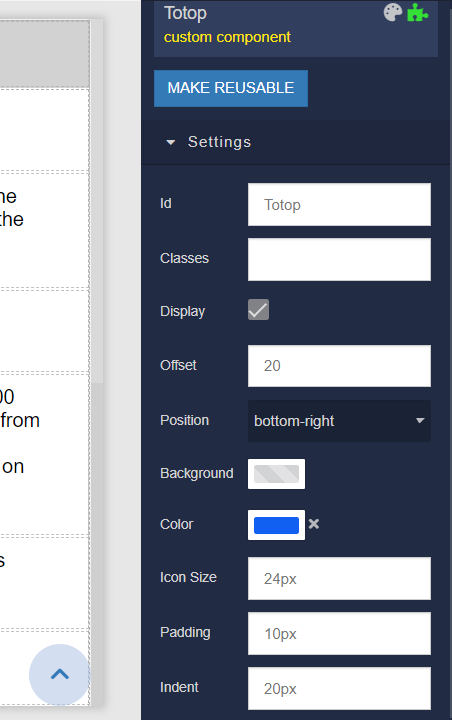
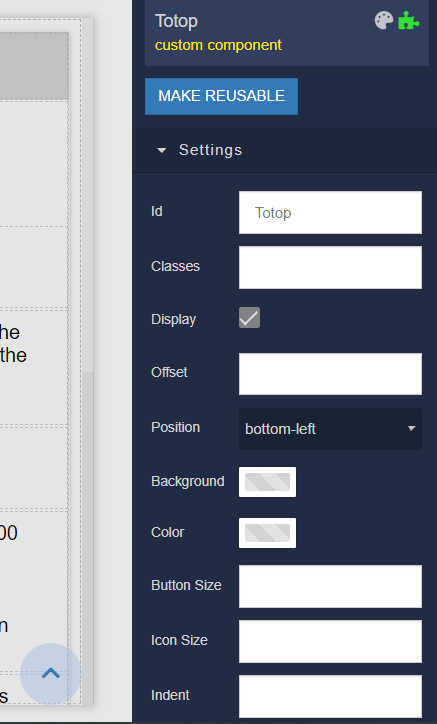
edits in handle, readme, changed example img

diff --git a/components/bl-totop-component/src/index.js b/components/bl-totop-component/src/index.js
@@ -36,7 +36,9 @@ export default function TotopComponent({ component }) {
     fill: color,
   };
 
-  const handleScroll = () => window.scrollTo({ top: element?.el ? offset : offset, behavior: "smooth" });
+  const handleScroll = () => {
+    window.scrollTo({ top:  element?.el ? element.el.offsetTop + offset : offset, behavior: 'smooth' });
+  };
 
   return (
     <div className={cn("bl-customComponent-totop", classList)} style={styles} onClick={handleScroll}>

diff --git a/components/bl-totop-component/README.md b/components/bl-totop-component/README.md
@@ -8,16 +8,16 @@ Totop is the component that can be used in Backendless [UI-Builder](https://back
 
 ## Properties
 
-| Property   | Type                                                | Default value  | Logic                      | Data Binding | UI Setting | Description                                                       |
-|------------|-----------------------------------------------------|----------------|----------------------------|--------------|------------|-------------------------------------------------------------------|
-| Position   | *Select* <br> `'bottom-right'` <br> `'bottom-left'` | `bottom-right` | Type Logic                 | NO           | YES        | Controls the position of the up button on the page.               |
-| Element    | *JSON* <br> `{...}`                                 |                | Element To Scroll To Logic | NO           | NO         | The logic to determine the element to which the scroll will be.   |
-| Offset     | *Number*                                            | `0`            |                            | NO           | YES        | Controls the scroll offset.                                       |
-| Background | *Color*                                             |                |                            | NO           | YES        | Controls the up button background.                                |
-| Color      | *Color*                                             |                |                            | NO           | YES        | Controls the color of the icon inside the up button.              |
-| Icon Size  | *Text*                                              | `24px`         |                            | NO           | YES        | Controls the size(width/height) of the icon inside the up button. |
-| Padding    | *Text*                                              | `10px`         |                            | NO           | YES        | Controls the indent inside the up button.                         |
-| Indent     | *Text*                                              | `30px`         |                            | NO           | YES        | Controls the indent of the up button from the edge of the page.   |
+| Property    | Type                                                                                                                                 | Default value  | Logic                      | Data Binding | UI Setting | Description                                                                                           |
+|-------------|--------------------------------------------------------------------------------------------------------------------------------------|----------------|----------------------------|--------------|------------|-------------------------------------------------------------------------------------------------------|
+| Position    | *Select* <br> [`bottom-right`, `bottom-left`, `bottom-center`, `top-right`, `top-left`, `top-center`, `center-right`, `center-left`] | `bottom-right` | Type Logic                 | NO           | YES        | Controls the position of the up button on the page.                                                   |
+| Element     |                                                                                                                                      |                | Element To Scroll To Logic | NO           | NO         | The logic to determine the element to which the scroll will be. Watch [Codeless Examples](#Examples). |
+| Offset      | *Number*                                                                                                                             |                |                            | NO           | YES        | Controls the scroll offset.                                                                           |
+| Background  | *Color*                                                                                                                              |                |                            | NO           | YES        | Controls the up button background.                                                                    |
+| Color       | *Color*                                                                                                                              |                |                            | NO           | YES        | Controls the color of the icon inside the up button.                                                  |
+| Button Size | *Text*                                                                                                                               |                |                            | NO           | YES        | Controls the size(width/height) of the up button.                                                     |
+| Icon Size   | *Text*                                                                                                                               |                |                            | NO           | YES        | Controls the size(width/height) of the icon inside the up button.                                     |
+| Indent      | *Text*                                                                                                                               |                |                            | NO           | YES        | Controls the indent of the up button from the edge of the page.                                       |
 
 ## Styles
 
@@ -29,13 +29,21 @@ Totop is the component that can be used in Backendless [UI-Builder](https://back
 
 **Dimensions**
 ```
-@bl-customComponent-totop-size: 20px;
+@bl-customComponent-totop-size: 40px;
+@bl-customComponent-totop-icon-size: 20px;
+@bl-customComponent-totop-border-radius: 50%;
+@bl-customComponent-totop-z-index: 999;
 ```
 
 **Colors**
 ````
 @bl-customComponent-totop-background-color: if(@isLightTheme, rgba(0, 0, 0, 0.04), rgba(255, 255, 255, 0.04));
 @bl-customComponent-totop-hover-background-color: fade(@bl-customComponent-totop-background-color, 20%);
+````
+
+**Other**
+````
+@bl-customComponent-totop-cursor: pointer;
 ````
 
 ## Examples
